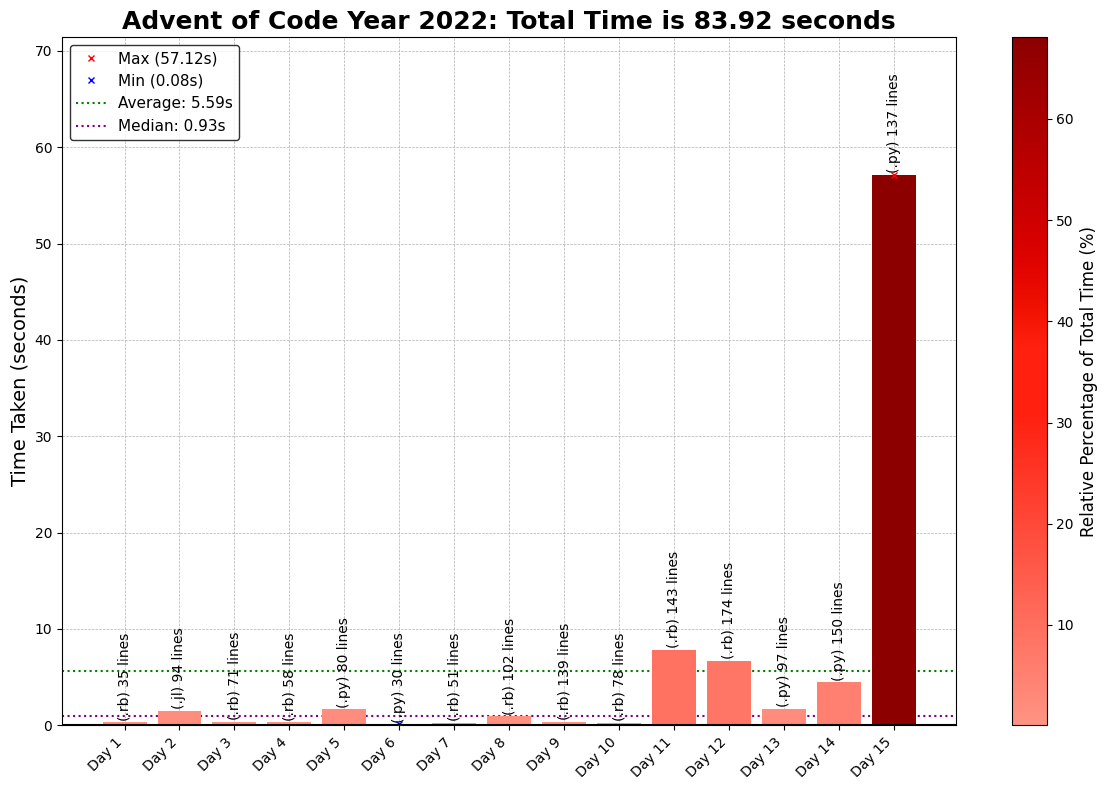
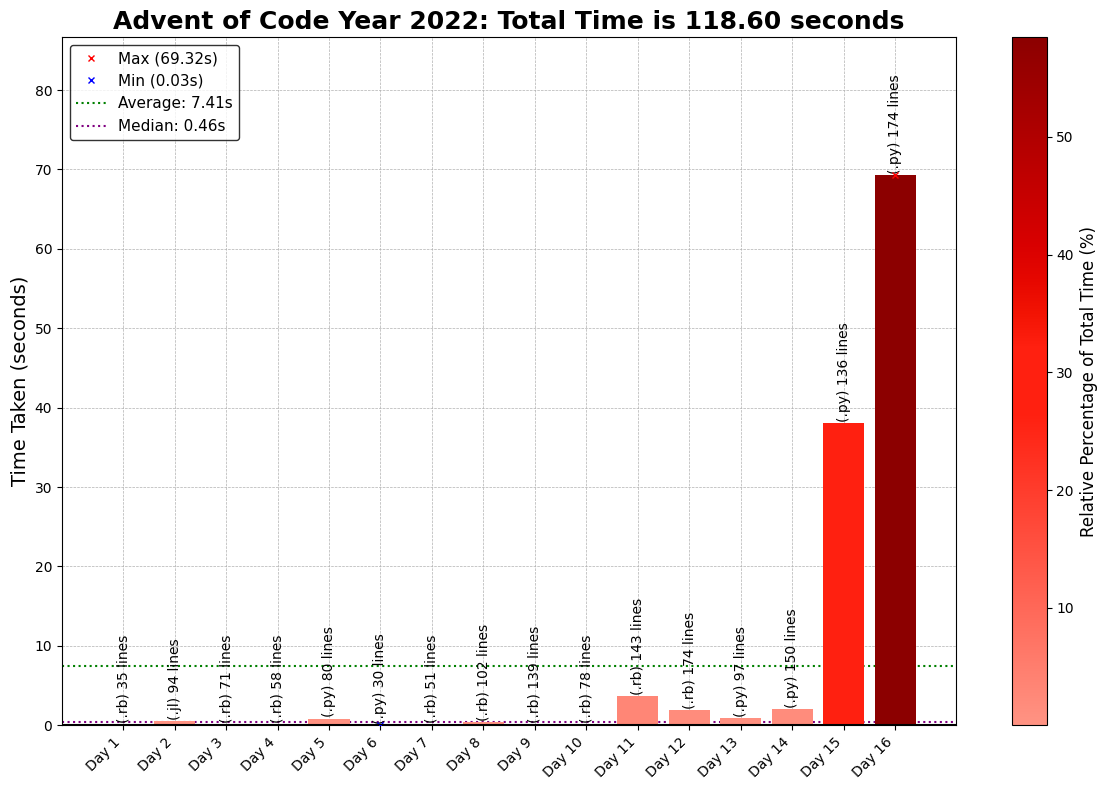
2022 Day 16

diff --git a/2022/16/2022Day16.py b/2022/16/2022Day16.py
@@ -1,0 +1,174 @@
+"""Advent of Code - Day 16, Year 2022
+Solution Started: Dec 3, 2024
+Puzzle Link: https://adventofcode.com/2022/day/16
+Solution by: abbasmoosajee07
+Brief: [Pipe Networks and Valves]
+"""
+
+#!/usr/bin/env python3
+
+import os, re, copy, sys, functools
+import numpy as np
+import pandas as pd
+import networkx as nx
+import matplotlib.pyplot as plt
+
+# Load the input data from the specified file path
+D16_file = "Day16_input.txt"
+D16_file_path = os.path.join(os.path.dirname(os.path.abspath(__file__)), D16_file)
+
+# Read and sort input data into a grid
+with open(D16_file_path) as file:
+    input_data = file.read().strip().split('\n')
+
+
+def parse_input(input_list):
+    pipe_dict = {}
+    pattern = r"Valve (\w+) has flow rate=(\d+); tunnels? leads? to valves? (.+)"
+    for line in input_list:
+        match = re.search(pattern, line)
+        if match:
+            valve = match.group(1)
+            flow = int(match.group(2))
+            leads_to = match.group(3).split(", ")
+            pipe_dict[valve] = {'flow': flow, 'leads_to': leads_to}
+    return pipe_dict
+
+
+@functools.cache
+def release_max_pressure(opened, mins_remaining, curr_valve_id, with_elephant=False):
+    if mins_remaining <= 0:
+        # If we have an elephant, start over with a fresh cycle
+        if with_elephant:
+            return release_max_pressure(opened, 26, "AA", with_elephant=False)
+        else:
+            return 0
+
+    pressure_relief = 0
+    current_valve = valve_dict[curr_valve_id]
+    leads_to = current_valve["leads_to"]
+    flow_rate = current_valve["flow"]
+
+    # Skip valves with no flow rate
+    if flow_rate == 0 and curr_valve_id not in opened:
+        # We will not open this valve, so skip further exploration
+        return max(pressure_relief, max(
+            release_max_pressure(opened, mins_remaining - 1, neighbor, with_elephant) for neighbor in leads_to
+        ))
+
+    # Explore neighbors
+    for neighbor in leads_to:
+        pressure_relief = max(
+            pressure_relief,
+            release_max_pressure(opened, mins_remaining - 1, neighbor, with_elephant)
+        )
+
+    # Open the valve if not already opened and has a flow rate > 0
+    if curr_valve_id not in opened and flow_rate > 0:
+        new_opened = frozenset(opened | {curr_valve_id})
+        total_released = (mins_remaining - 1) * flow_rate
+        most_relief = 0
+
+        for neighbor in leads_to:
+            most_relief = max(
+                most_relief,
+                total_released + release_max_pressure(new_opened, mins_remaining - 2, neighbor, with_elephant)
+            )
+
+        pressure_relief = max(pressure_relief, most_relief)
+
+    return pressure_relief
+
+
+# valve_dict = parse_input(input_data)
+# ans_p1 = release_max_pressure(frozenset(), 30, 'AA')
+# print(f"Part 1: {ans_p1}")
+
+# ans_p2 = release_max_pressure(frozenset(), 26, 'AA', True)
+# print(f"Part 2: {ans_p2}")
+
+#!/usr/bin/env python3
+
+import os, re, functools
+import numpy as np
+
+# Load the input data from the specified file path
+D16_file = "Day16_input.txt"
+D16_file_path = os.path.join(os.path.dirname(os.path.abspath(__file__)), D16_file)
+
+# Read and sort input data into a grid
+with open(D16_file_path) as file:
+    input_data = file.read().strip().split('\n')
+
+
+def parse_input(input_list):
+    pipe_dict = {}
+    valve_names = []
+    pattern = r"Valve (\w+) has flow rate=(\d+); tunnels? leads? to valves? (.+)"
+    for line in input_list:
+        match = re.search(pattern, line)
+        if match:
+            valve = match.group(1)
+            flow = int(match.group(2))
+            leads_to = match.group(3).split(", ")
+            pipe_dict[valve] = {'flow': flow, 'leads_to': leads_to}
+            valve_names.append(valve)
+    return pipe_dict, valve_names
+
+
+@functools.cache
+def release_max_pressure(opened_mask, mins_remaining, curr_valve_id, with_elephant=False):
+    if mins_remaining <= 0:
+        # If we have an elephant, start over with a fresh cycle
+        if with_elephant:
+            return release_max_pressure(opened_mask, 26, "AA", with_elephant=False)
+        else:
+            return 0
+
+    pressure_relief = 0
+    current_valve = valve_dict[curr_valve_id]
+    leads_to = current_valve["leads_to"]
+    flow_rate = current_valve["flow"]
+
+    # Skip valves with no flow rate
+    if flow_rate == 0 and (opened_mask & (1 << valve_index_map[curr_valve_id])) == 0:
+        # We will not open this valve, so skip further exploration
+        return max(pressure_relief, max(
+            release_max_pressure(opened_mask, mins_remaining - 1, neighbor, with_elephant)
+            for neighbor in leads_to
+        ))
+
+    # Explore neighbors
+    for neighbor in leads_to:
+        pressure_relief = max(
+            pressure_relief,
+            release_max_pressure(opened_mask, mins_remaining - 1, neighbor, with_elephant)
+        )
+
+    # Open the valve if not already opened and has a flow rate > 0
+    if (opened_mask & (1 << valve_index_map[curr_valve_id])) == 0 and flow_rate > 0:
+        new_opened_mask = opened_mask | (1 << valve_index_map[curr_valve_id])
+        total_released = (mins_remaining - 1) * flow_rate
+        most_relief = 0
+
+        for neighbor in leads_to:
+            most_relief = max(
+                most_relief,
+                total_released + release_max_pressure(new_opened_mask, mins_remaining - 2, neighbor, with_elephant)
+            )
+
+        pressure_relief = max(pressure_relief, most_relief)
+
+    return pressure_relief
+
+
+# Parse input and create a mapping of valve names to indices for bitmasking
+valve_dict, valve_names = parse_input(input_data)
+valve_index_map = {valve_names[i]: i for i in range(len(valve_names))}
+
+# Compute max pressure release
+ans_p1 = release_max_pressure(0, 30, 'AA')
+print(f"Part 1: {ans_p1}")
+
+ans_p2 = release_max_pressure(0, 26, 'AA', True)
+print(f"Part 2: {ans_p2}")
